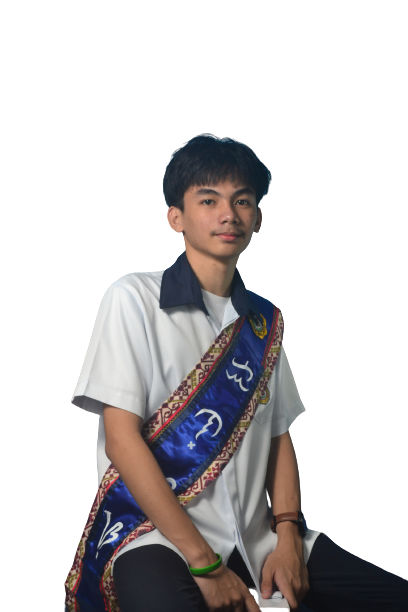
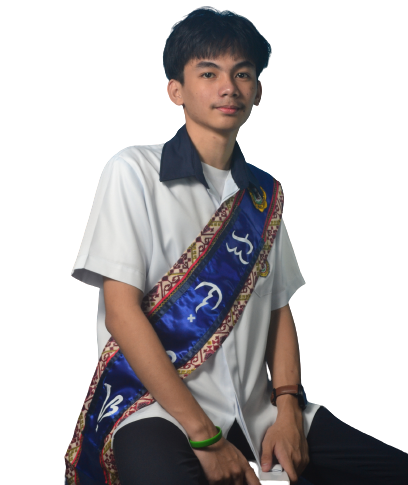
Index Revise
added my photo and description

diff --git a/projects/portfolio/styles.css b/projects/portfolio/styles.css
@@ -1,10 +1,11 @@
 .container {
-    width: 100%;
+    width: 90%;
     height: auto;
     display: flex;
-    min-height: 100vh;
+    min-height: 10vh;
     align-items: center;
     flex-direction: column;
+    margin: 10px;
 }
 
 * {
@@ -18,13 +19,13 @@ body {
     background-color: #16213E;
 }
 
-a {
-    text-decoration: none;
-}
+  a {
+      text-decoration: none;
+  }
 
-li {
-    list-style: none;
-}
+  li {
+      list-style: none;
+  }
 
     .navbar {
     display: flex;
@@ -134,7 +135,29 @@ li {
     color: black;
   }
 
+  .lowespic{
+    width: 60%;
+    height: 100%;
+    display: block;
+    margin-left: auto;
+    margin-right: auto;
+  }
+
+  .home_text{
+    text-align: justify;
+    color:white;
+    font-size: 16px;
+    width: 100%;
+  }
+
   @media only screen and (max-width: 768px) {
+
+    .home_text{
+      text-align: justify;
+      color:white;
+      font-size: 10px;
+      width: 100%;
+    }
     nav ul {
       display: none;
     }
@@ -144,13 +167,22 @@ li {
       z-index: 10;
     }
     
-      .buttonW{
+    .buttonW{
           width: 100%;
-      }
+    }
       
-      .card-margin-top {
+    .card-margin-top {
           margin-top: 4rem;
-      }
+    }
+
+    .lowespic{
+      width: 150px;
+      height: 100%;
+      display: block;
+      margin-left: auto;
+      margin-right: auto;
+    }
+    
   }
   
   /* DROPDOWN MENU */
@@ -205,3 +237,15 @@ li {
     background-color: #533483;
     color: white;
   }
+
+  .row {
+	  display: flex;
+    width:100%;
+    height: 100%;
+    margin-top: 50px;
+    margin-bottom: 50px;
+	}
+	.column {
+	  padding: 5px;
+    width: 80%;
+	}

diff --git a/projects/portfolio/index.html b/projects/portfolio/index.html
@@ -64,9 +64,29 @@
         menu.classList.toggle('open');
     }
     </script>
+<div>
+    <div class="container">
 
-    <div class="container winter">
-        <img src="./img/winter.gif" style="width: 45%; height: 45%;">
+        <div class="row">
+
+            <div class="column" style="align-items: center;">
+                <img class="lowespic" src="img/lowes.png">
+            </div>
+		    <div class="column" style="align-items: center; margin:auto;">
+                <p class="home_text">
+                
+                Hola. I am Luis Anthony N. Grado, a 20-year old 3rd year BS Information Technology at Bicol University. 
+                I live in Baligang, Camalig, Albay. My hobbies are playing console video games, coding, reading books, and lastly, laughing at memes.
+                I am now pursuing the field of Web Development and aspires to be Full Stack Web Developer someday. 
+                </p>
+            </div>
+
+        </div>
     </div>
+
+    <div class="container">
+        
+    </div>
+</div>
 </body>
 </html>
